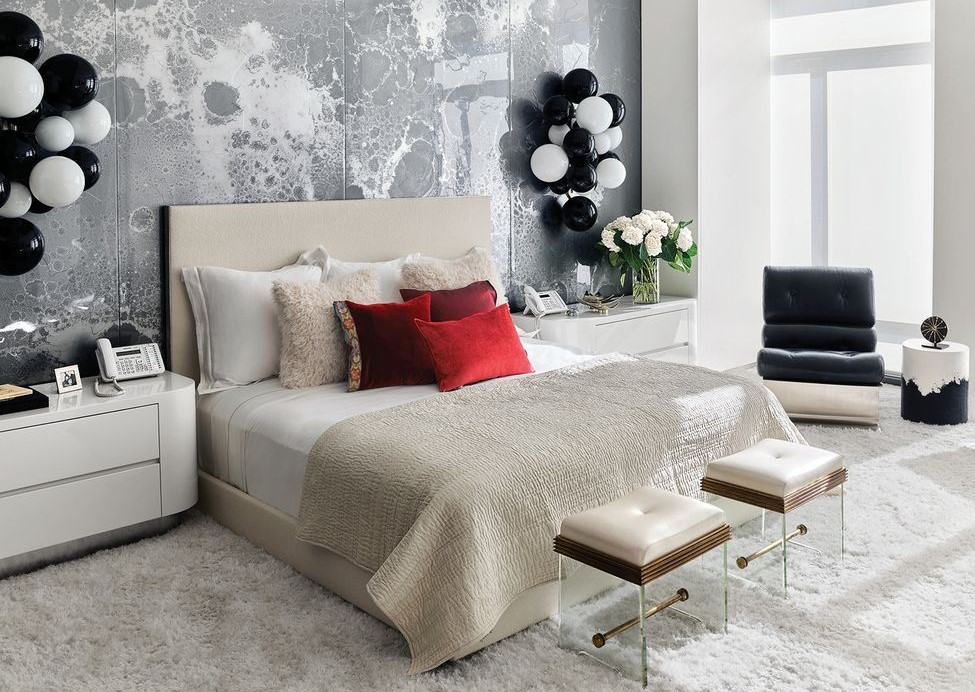
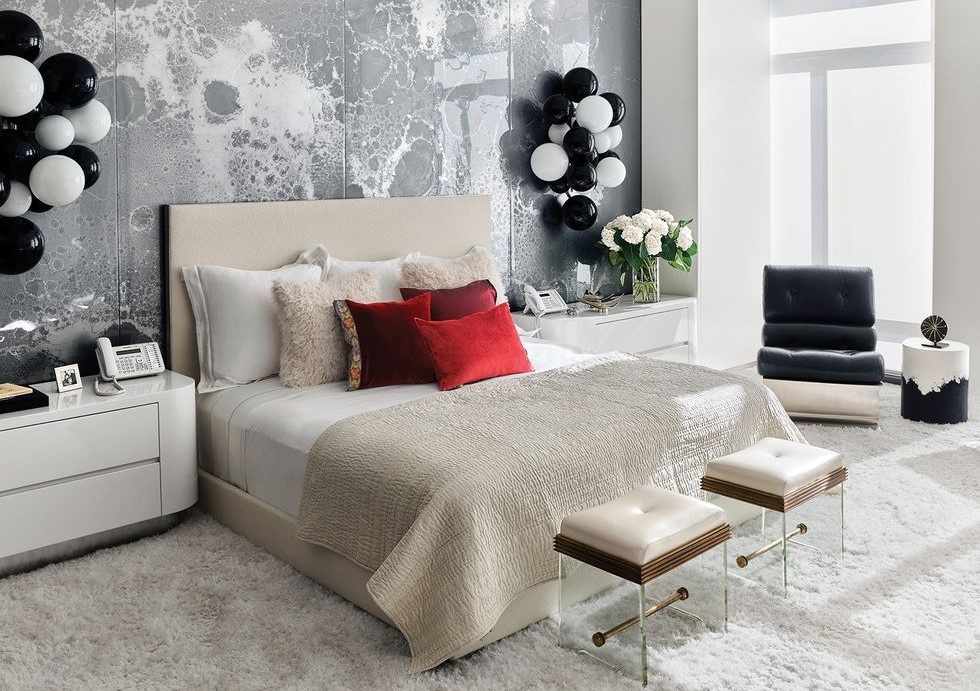
commit

diff --git a/src/Hook/useFirebase.js b/src/Hook/useFirebase.js
@@ -1,33 +1,150 @@
-import React from 'react';
-import { getAuth, signInWithPopup, GoogleAuthProvider } from "firebase/auth";
+import { getAuth, signInWithPopup, createUserWithEmailAndPassword, updateProfile, signInWithEmailAndPassword, GoogleAuthProvider, FacebookAuthProvider, onAuthStateChanged, signOut } from "firebase/auth";
 import { useState } from 'react';
+import { useEffect } from 'react';
+import firebaseInit from '../Firebase/firebaseInit';
+
+firebaseInit();
 
 const useFirebase = () => {
+
     const [user, setUser] = useState({});
-    const [error, setError] = useState("");
+    const [error, setError] = useState('');
+    const [isLoading, setisLoading] = useState(true);
 
-    // Auth Providers
-    const googleProvider = new GoogleAuthProvider();
 
+    // auth
     const auth = getAuth();
 
-    const signInWithGoogle = () => {
+    // providers
+    const googleProvider = new GoogleAuthProvider();
+    const facebookProvider = new FacebookAuthProvider();
+
+
+
+    // signin with email and password
+    
+    const signupWithEmailAndPassword = (name ,email, password, navigate) => {
+
+        setisLoading(true);
+
+        createUserWithEmailAndPassword(auth, email, password)
+
+        .then((result) => {
+           console.log(result.user)
+            const newUser = {email, displayName: name};
+            setUser(newUser);
+            
+            updateProfile(auth.currentUser, {
+                displayName: name
+              }).then(() => {
+            
+              }).catch((error) => {
+                
+              });
+
+              navigate.replace('/home')
+              setError('');
+        })
+        .catch((error) => {
+
+            setError(error.message);
+
+        }).finally(() => setisLoading(false));
+    };
+
+
+    // sign in with email and password
+
+    const loginWithEmailAndPassword = (email, password, location , history) => {
+
+        setisLoading(true);
+
+        signInWithEmailAndPassword(auth, email, password)
+
+        .then((userCredential) => {
+            const user = userCredential.user;
+            setUser(user);
+
+            const { from } = location.state || { from: { pathname: "/" }};
+
+            history.replace(from);
+            setError('');
+        })
+        .catch((error) => {
+            setError(error.message);
+        }).finally(() => setisLoading(false));
+    }
+
+    // log in with google 
+
+    const loginWithGoogle = (location , history) => {
+        
+        setisLoading(true);
+
         signInWithPopup(auth, googleProvider)
+
+        .then((result) => {
+            const user = result.user;
+            setUser(user);
+
+           
+            const { from } = location.state || { from: { pathname: "/" }};
+
+            history.replace(from);
+            setError("")
+
+        }).catch((error) => {
+
+            setError(error.message);
+
+        }).finally(() => setisLoading(false));
+    };
+
+    // login with facebook
+
+    const loginWithFacebook = () => {
+        signInWithPopup(auth, facebookProvider)
             .then((result) => {
-                const credential = GoogleAuthProvider.credentialFromResult(result);
-                const token = credential.accessToken;
-                const user = result.user;
-         
-            }).catch((error) => {
-                const errorCode = error.code;
-                const errorMessage = error.message;
-                const email = error.email;
-                const credential = GoogleAuthProvider.credentialFromError(error);
+
+
+            })
+            .catch((error) => {
+                
             });
     }
 
-    return {
-        signInWithGoogle
+
+    // logout
+
+    const logout = () => {
+        signOut(auth).then(() => {
+            
+          }).catch((error) => {
+            
+          });
+    }
+    // observer
+
+    useEffect(() => {
+        onAuthStateChanged(auth, (user) => {
+            if (user) {
+                setUser(user);
+            } else {
+              setUser({});
+            }
+            setisLoading(false);
+          });
+    },[])
+
+    return{
+        user,
+        error,
+        isLoading,
+        signupWithEmailAndPassword,
+        loginWithEmailAndPassword,
+        loginWithGoogle,
+        loginWithFacebook,
+        logout
     };
 };
 

diff --git a/src/Pages/Login/Login.js b/src/Pages/Login/Login.js
@@ -1,8 +1,24 @@
 import React from 'react';
-import { Link } from 'react-router-dom';
-import './SignUp.css'
+import { useForm } from 'react-hook-form';
+import { Link, useLocation, useNavigate } from 'react-router-dom';
+import useAuth from '../../Hook/useAuth';
+import './Login.css'
 
-const Signup = () => {
+
+const Login = () => {
+    const { user, loginWithGoogle, loginWithFacebook, loginWithEmailAndPassword, error } = useAuth();
+    const navigate = useNavigate();
+    const location = useLocation();
+    
+    const handleLoginWithGoogle = () => {
+        loginWithGoogle(location, navigate)
+    };
+    const { handleSubmit } = useForm();
+
+    const onSubmit = data => {
+        loginWithEmailAndPassword(data.email, data.password, location, navigate)
+        console.log(data)
+    };
     return (
         <div className='form-container'>
             <div className='row'>
@@ -10,9 +26,9 @@ const Signup = () => {
                     <div className='form-content'>
                         <div className='form-items mx-5'>
                             <div>
-                                <h3 className='text-center'>Sign Up</h3>
+                                <h3 className='text-center'>Login</h3>
                             </div>
-                            <form>
+                            <form onSubmit={handleSubmit(onSubmit)}>
                                 <div className='mt-3'>
                                     <p>
                                         <label>
@@ -34,10 +50,10 @@ const Signup = () => {
                                     </p>
                                     <p>Forgot password?</p>
                                 </div>
-                                <button className='signIn-btn px-3 py-2 rounded-pill mt-4'>Sign Up</button>
+                                <button className='signIn-btn px-3 py-2 rounded-pill mt-4'>Login</button>
                             </form>
                         </div>
-                        <p className='text-center mt-4'>Or Sign Up Using</p>
+                        <p className='text-center mt-4'>Or Login Using</p>
                         <div className='mt-3 mx-5 d-flex justify-content-center'>
 
                             <div className='mb-3'>
@@ -49,8 +65,8 @@ const Signup = () => {
                             </div>
                         </div>
                         <div className='mx-5 px-4'>
-                            <span>Already have an account?</span>
-                            <span><Link to="/login">Login</Link></span>
+                            <span>Don't have an account?</span>
+                            <span><Link to="/signup">Sign Up</Link></span>
                         </div>
                     </div>
                 </div>
@@ -59,4 +75,5 @@ const Signup = () => {
     );
 };
 
-export default Signup;
+export default Login;
+

diff --git a/src/Pages/Contact/Contact.js b/src/Pages/Contact/Contact.js
@@ -3,7 +3,6 @@ import { Alert, Container } from 'react-bootstrap';
 import NavBar from '../Shared/NavBar/NavBar';
 import './Contact.css'
 import emailjs from '@emailjs/browser';
-import img from '../../images/chinese-asian-reception-team-hotel-front-desk-luxury-welcoming-guests-typical-gesture-sign-good-service-37384865.jpg'
 import { useState } from 'react';
 
 const Contact = () => {
@@ -26,10 +25,14 @@ const Contact = () => {
         <>
             <NavBar></NavBar>
             <Container>
+            <div className='col-12 contact-bg'>
+
+                </div>
                 <div className='row contact-container my-5'>
+                    
                     <div className='col-sm-12 col-md-6 col-lg-6'>
                         <div className='contact-img'>
-                            <img src={img} alt="" />
+                            <img src="" alt="" />
                         </div>
                     </div>
                     <div className='col-sm-12 col-md-6 col-lg-6'>

diff --git a/src/App.js b/src/App.js
@@ -6,21 +6,27 @@ import {
 } from "react-router-dom";
 import Home from './Pages/Home/Home';
 import NotFound from './Pages/NotFound/NotFound';
-import NavBar from './Pages/Shared/NavBar/NavBar';
 import Contact from './Pages/Contact/Contact';
+import Login from './Pages/Login/Login';
+import SignUp from './Pages/SignUp/SignUp'
+import AuthProvider from './Context/AuthProvider';
+
 
 function App() {
   return (
     <div className="App">
+      <AuthProvider>
       <BrowserRouter>
         <Routes>
          <Route path="/" element={<Home />} />
          <Route path="/home" element={<Home />} />
          <Route path="/contact" element={<Contact />} />
-
+         <Route path="/login" element={<Login />} />
+         <Route path="/signup" element={<SignUp />} />
          <Route path="*" element={<NotFound />} />
         </Routes>
       </BrowserRouter>
+      </AuthProvider>
     </div>
   );
 }

diff --git a/src/Pages/Login/Login.css b/src/Pages/Login/Login.css
@@ -1,0 +1,36 @@
+.form-container{
+    background-color: #105652;
+    width: 100%;
+    min-height: 100vh;
+}
+.form-content{
+    background-color: white;
+    box-shadow: 0 19px 38px rgba(0,0,0,0.30), 0 15px 12px rgba(0,0,0,0.22);
+    border-radius: 20px;
+    margin: 80px 0px 50px 0px;
+    width: 400px;
+    height: 500px;
+}
+.form-items{
+    margin: 30px 0 0 0;
+}
+.form-items input{
+    border: 0;
+    outline: 0;
+    border-bottom: 2px solid #105652;
+    width: 300px;
+    padding-top: 10px;
+}
+.form-content a{
+    text-decoration: none;
+}
+.signIn-btn{
+    border: none;
+    width: 300px;
+    background-color: #105652;
+    color: white;
+}
+.regular-btn {
+    border: none;
+    background-color: white;
+}

diff --git a/src/Pages/Home/Hero/Hero.css b/src/Pages/Home/Hero/Hero.css
@@ -1,9 +1,7 @@
 .hero-section{
-    background-image: url('../../../images/modern-bedroom-haynes-1565731330.jpg'), linear-gradient(rgba(0, 0, 0, 0.6), rgba(0, 0, 0, 0.6));
+    background-image: url('../../../images/modern-bedroom-haynes-1565731330.jpg');
     background-repeat: no-repeat;
     background-size: cover;
-    background-attachment: fixed;
-    background-blend-mode: overlay;
     width: 100%;
     height: 100vh;
     position: relative;

diff --git a/src/Context/AuthProvider.js b/src/Context/AuthProvider.js
@@ -1,0 +1,15 @@
+import React from 'react';
+import { createContext } from 'react';
+import useFirebase from '../Hook/useFirebase';
+
+export const AuthContext =  createContext();
+const AuthProvider = ({children}) => {
+    const allContext = useFirebase();
+    return (
+        <AuthContext.Provider value={allContext}>
+            {children}
+        </AuthContext.Provider>
+    );
+};
+
+export default AuthProvider;

diff --git a/src/Pages/Contact/Contact.css b/src/Pages/Contact/Contact.css
@@ -1,3 +1,11 @@
+.contact-bg{
+    background-image: url('../../images/hotel-receptionist-check-man-giving-key-card_79405-1509.jpg');
+    background-repeat: no-repeat;
+    background-size: cover;
+    width: 100%;
+    height: 100vh;
+    object-fit: cover;
+}
 .contact-container p{
     color: grey;
 }

diff --git a/src/Hook/useAuth.js b/src/Hook/useAuth.js
@@ -1,0 +1,8 @@
+import { useContext } from 'react';
+import { AuthContext } from '../Context/AuthProvider';
+
+const useAuth = () => {
+    return useContext(AuthContext);
+};
+
+export default useAuth;

diff --git a/src/Pages/Home/Room/Room.css b/src/Pages/Home/Room/Room.css
@@ -17,6 +17,7 @@
     top: -80px;
     left: 30px;
 }
+
 .card-details{
     display: block;
     position: absolute;
